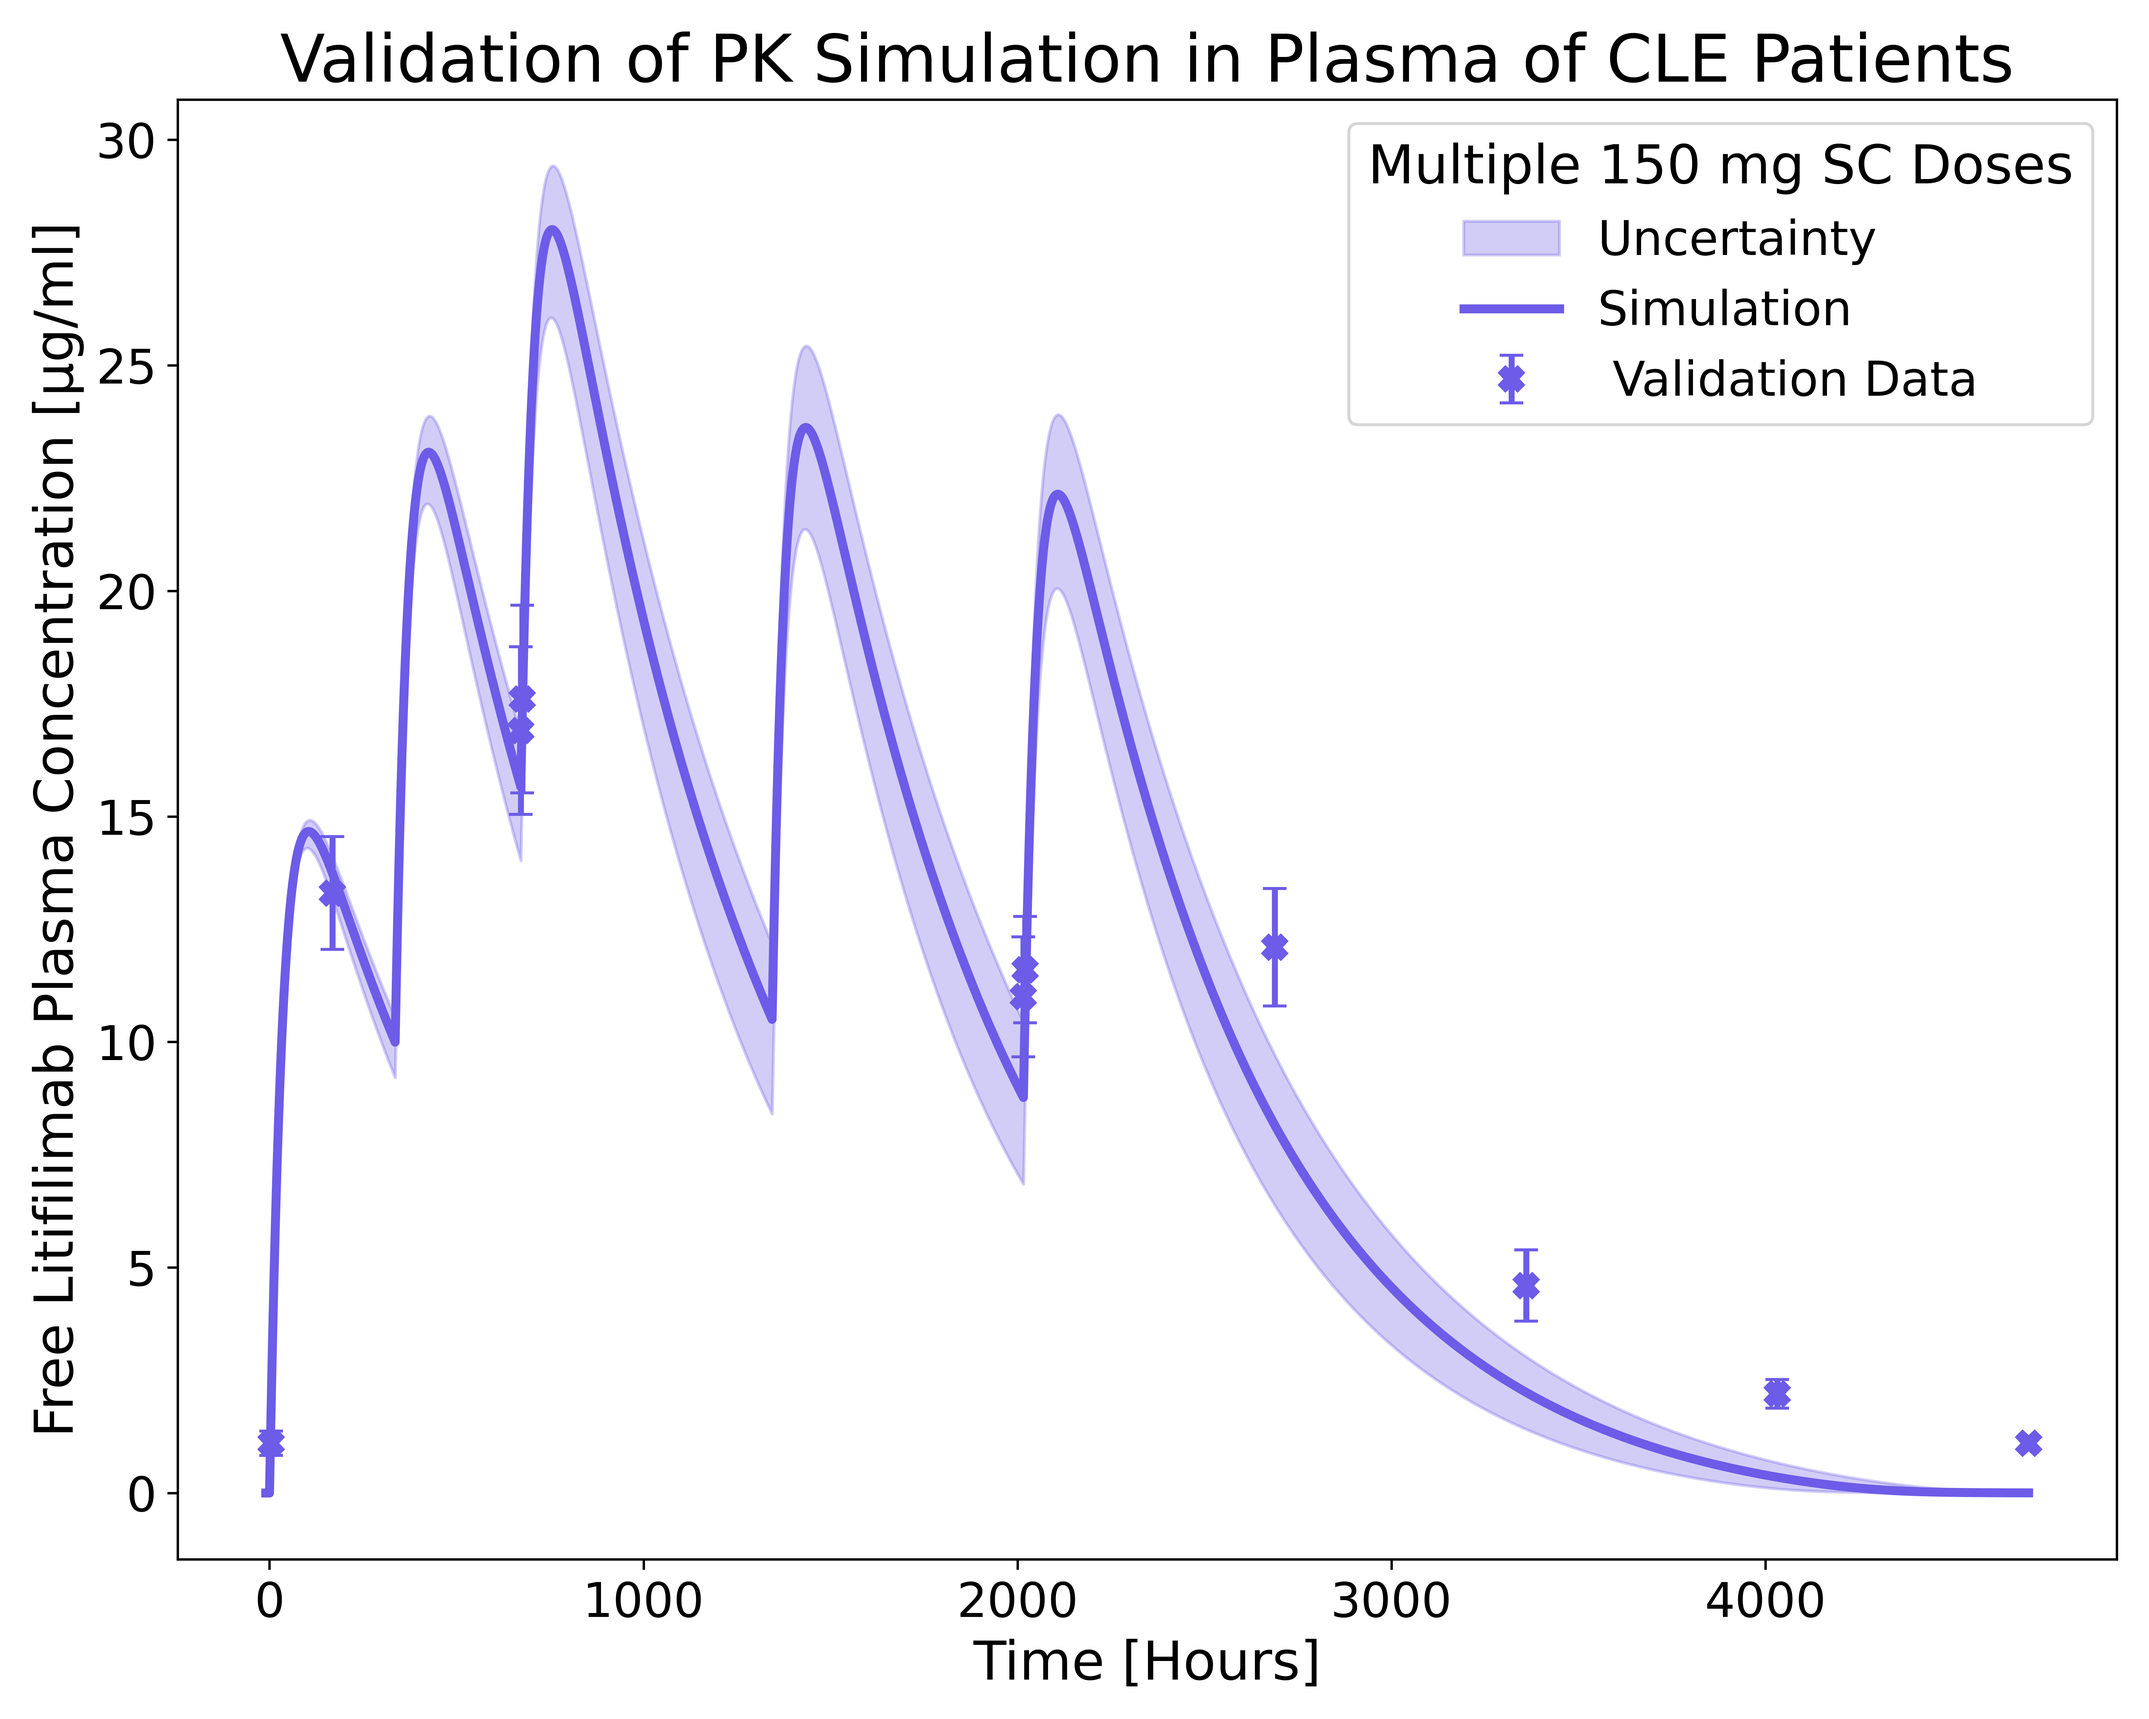
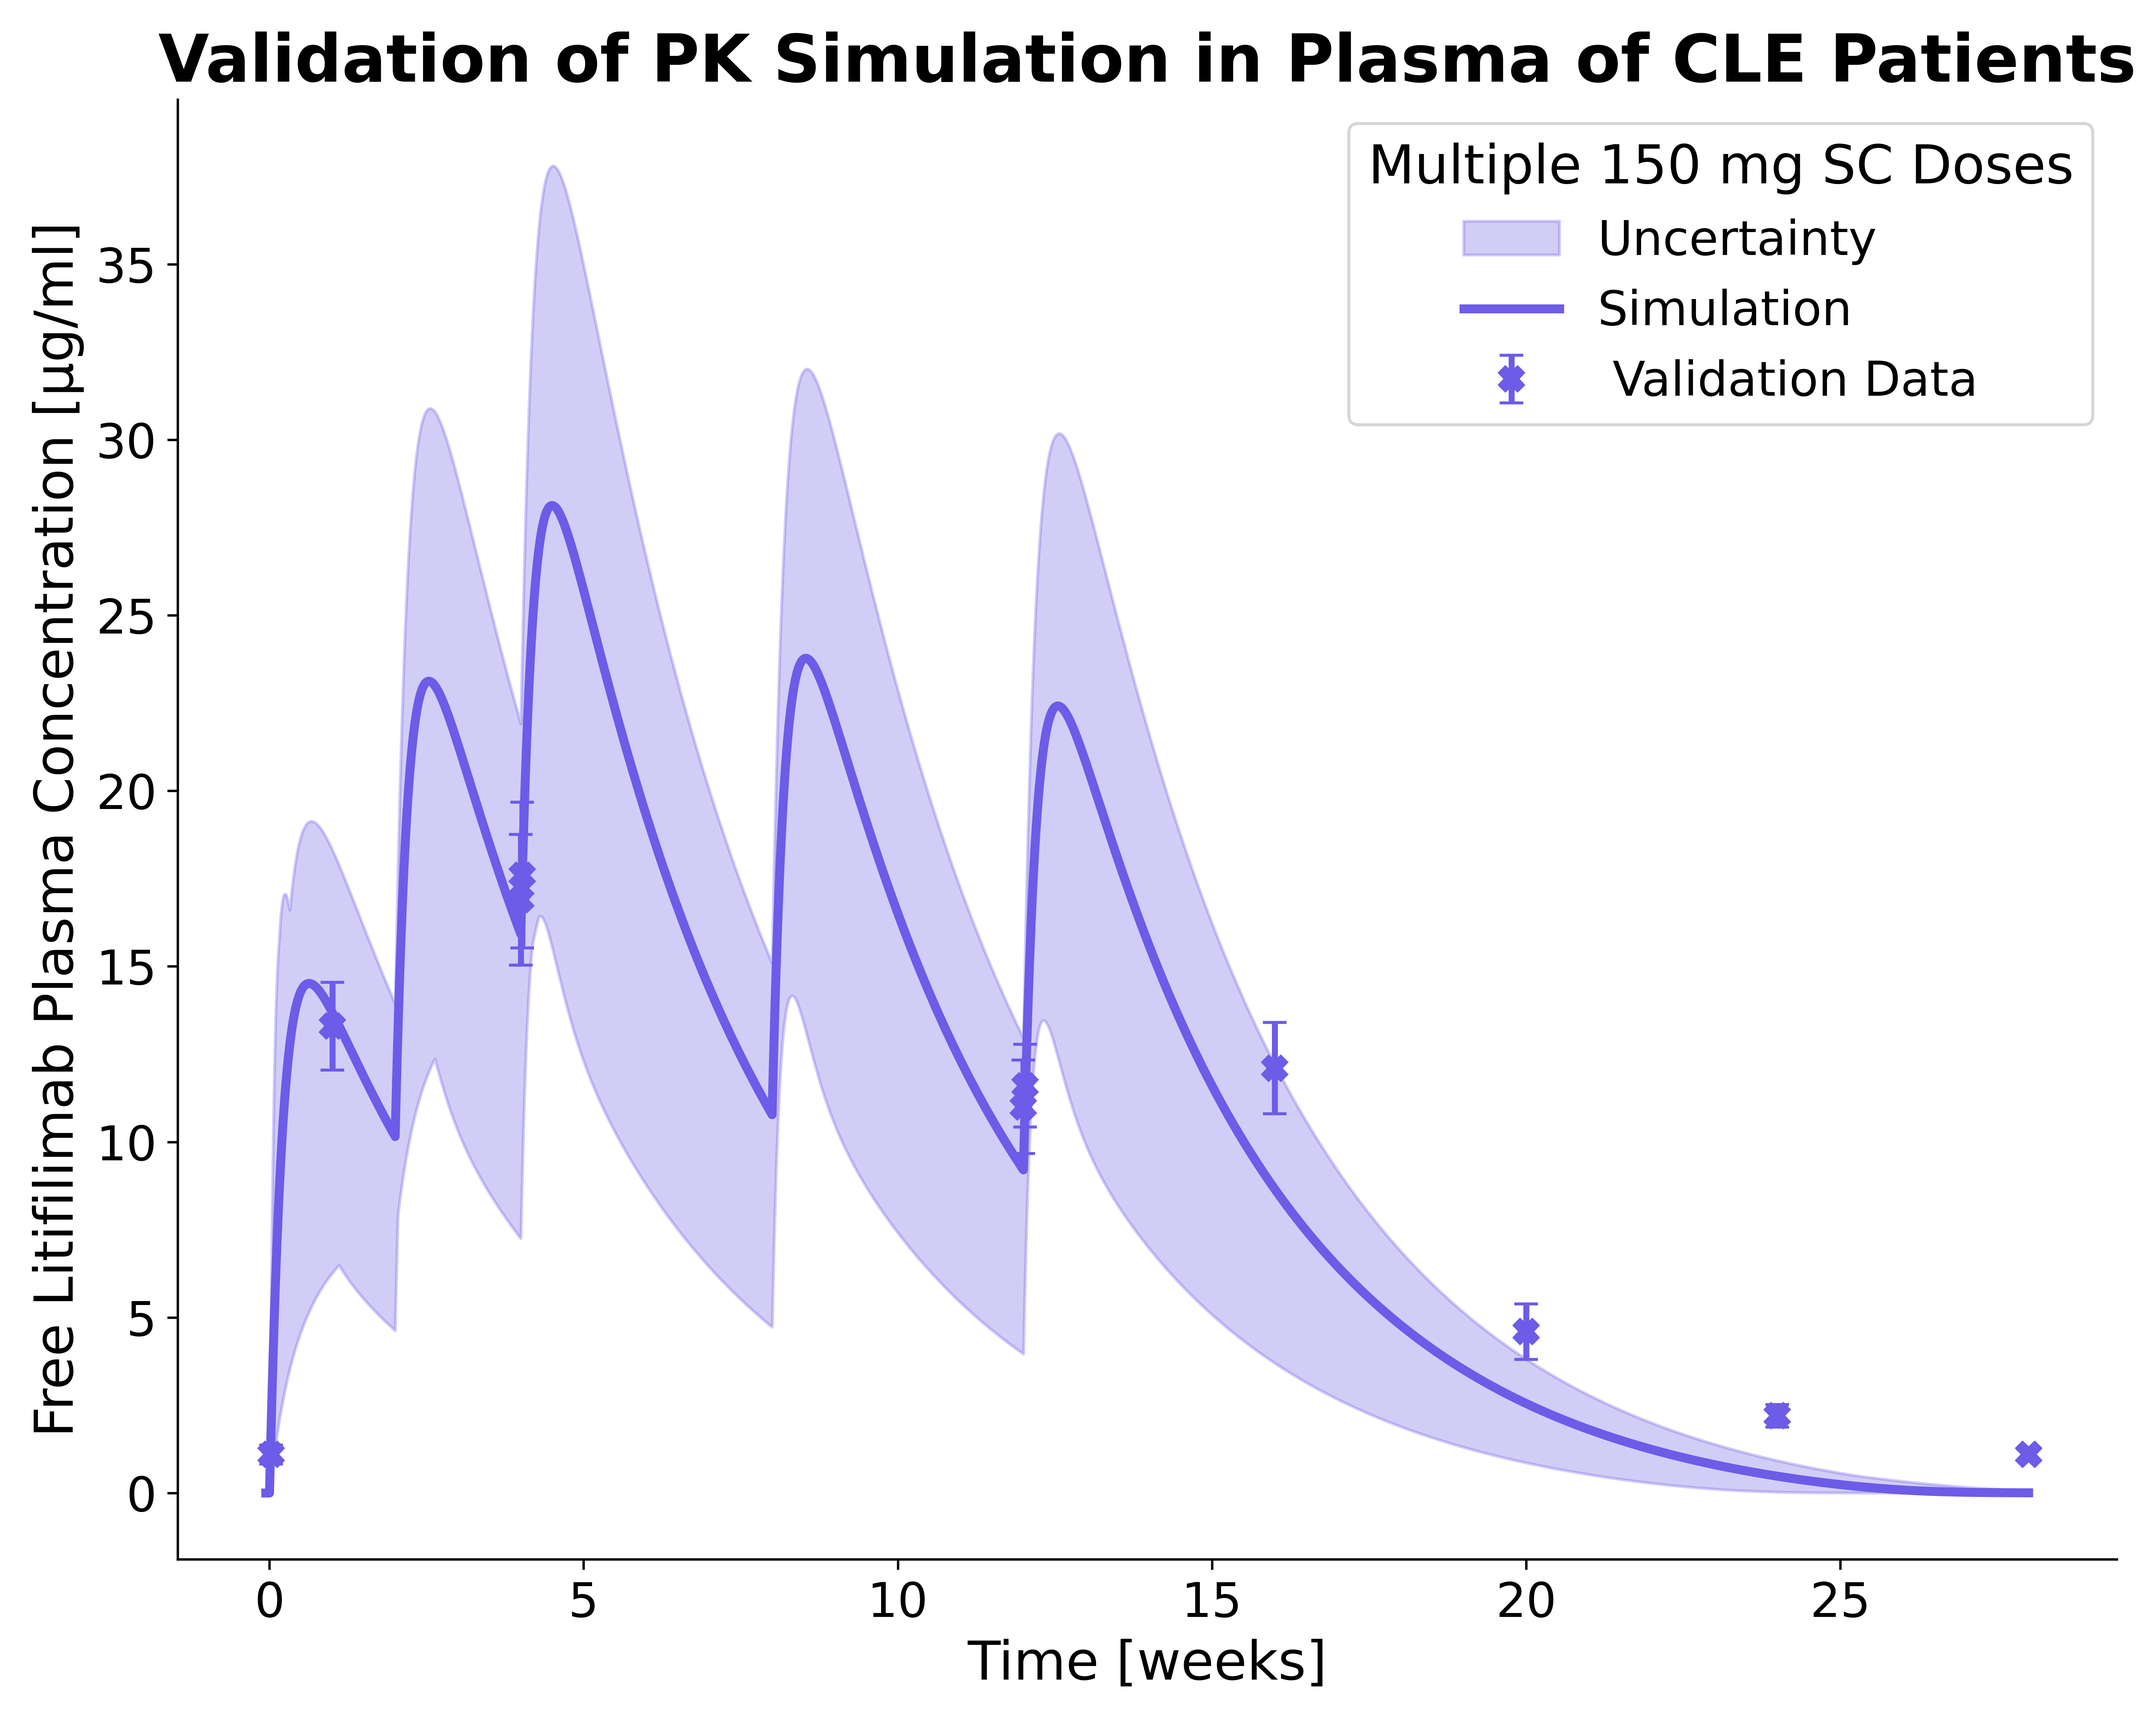
Validation plots och raderat gammalt

diff --git a/Scripts/Validation/plot_validation_CLE.py b/Scripts/Validation/plot_validation_CLE.py
@@ -14,7 +14,7 @@ class NumpyArrayEncoder(JSONEncoder):
         return JSONEncoder.default(self, obj)
 
 # Open the mPBPK_model.txt file and read its contents
-with open("../../Models/mPBPK_SLE_model_32_pdc_mm2.txt", "r") as f:
+with open("../../Models/mPBPK_SLE_model_80_pdc_mm2.txt", "r") as f:
     lines = f.readlines()
 
 # Load CLE Validation PK data
@@ -22,17 +22,16 @@ with open("../../Data/CLE_Validation_PK_data.json", "r") as f:
     PK_data = json.load(f)
 
 # Load acceptable parameters for SLE
-with open("../../Results/Acceptable params/acceptable_params_SLE_32_pdc_mm2.json", "r") as f:
-    acceptable_params = json.load(f)
+acceptable_params = np.loadtxt("../../Results/Acceptable params/acceptable_params_PL.csv", delimiter=",").tolist()
 
 # Load final parameters for SLE
 with open("../../Models/final_parameters_SLE.json", "r") as f:
-    params = json.load(f)
+    best_params = json.load(f)
 
 # Install and load the model
-sund.install_model('../../Models/mPBPK_SLE_model_32_pdc_mm2.txt')
+sund.install_model('../../Models/mPBPK_SLE_model_80_pdc_mm2.txt')
 print(sund.installed_models())
-model = sund.load_model("mPBPK_SLE_model_32_pdc_mm2")
+model = sund.load_model("mPBPK_SLE_model_80_pdc_mm2")
 
 # Create activity objects for each dose
 SC_50_CLE = sund.Activity(time_unit='h')
@@ -55,7 +54,7 @@ model_sims = {
 # The time vectors are created based on the maximum time in the PK_data for each experiment
 time_vectors = {exp: np.arange(-10, PK_data[exp]["time"][-1] + 0.01, 1) for exp in PK_data}
 
-def plot_model_uncertainty_with_validation_data(params, acceptable_params, sims, PK_data, time_vectors, save_dir='../../Results/Validation'):
+def plot_model_uncertainty_with_validation_data(best_params, acceptable_params, sims, PK_data, time_vectors, save_dir='../../Results/Validation'):
     os.makedirs(save_dir, exist_ok=True)
 
     # Colors and markers for the plots
@@ -66,14 +65,18 @@ def plot_model_uncertainty_with_validation_data(params, acceptable_params, sims,
     # Loop through each experiment and plot the uncertainty range and best parameter set
     for i, (experiment, color, dose) in enumerate(zip(PK_data.keys(), colors, doses)):
         plt.figure(figsize=(10, 8))
-        timepoints = time_vectors[experiment]
-        y_min = np.full_like(timepoints, np.inf)
-        y_max = np.full_like(timepoints, -np.inf)
+        # simulation uses hours, but plots should be in weeks
+        timepoints_hours = time_vectors[experiment]
+        timepoints = timepoints_hours / 168.0  # convert hours to weeks
+        y_min = np.full_like(timepoints_hours, np.inf)
+        y_max = np.full_like(timepoints_hours, -np.inf)
 
         # Calculate uncertainty range
         for params in acceptable_params:
+            SLE_params = np.delete(params.copy(), [10,15])
             try:
-                sims[experiment].simulate(time_vector=timepoints, parameter_values=params, reset=True)
+                # simulate using hourly time vector
+                sims[experiment].simulate(time_vector=timepoints_hours, parameter_values=SLE_params, reset=True)
                 y_sim = sims[experiment].feature_data[:, 0]
                 y_min = np.minimum(y_min, y_sim)
                 y_max = np.maximum(y_max, y_sim)
@@ -84,17 +87,19 @@ def plot_model_uncertainty_with_validation_data(params, acceptable_params, sims,
                     raise e
 
         # Plot uncertainty range
+        # plot using weeks on the x-axis
         plt.fill_between(timepoints, y_min, y_max, color=color, alpha=0.3, label='Uncertainty')
 
         # Plot best parameter set
-        sims[experiment].simulate(time_vector=timepoints, parameter_values=params, reset=True)
+        sims[experiment].simulate(time_vector=timepoints_hours, parameter_values=best_params, reset=True)
         y = sims[experiment].feature_data[:, 0]
         plt.plot(timepoints, y, color=color, linewidth=3, label='Simulation')
 
         # Plot experimental data
         marker = markers[i]
         plt.errorbar(
-            PK_data[experiment]['time'],
+            # convert experimental timepoints to weeks for plotting
+            np.array(PK_data[experiment]['time']) / 168.0,
             PK_data[experiment]['BIIB059_mean'],
             yerr=PK_data[experiment]['SEM'],
             fmt=marker,
@@ -107,9 +112,11 @@ def plot_model_uncertainty_with_validation_data(params, acceptable_params, sims,
         )
 
         # Labels and title
-        plt.xlabel('Time [Hours]', fontsize=18)
+        plt.xlabel('Time [weeks]', fontsize=18)
         plt.ylabel('Free Litifilimab Plasma Concentration [µg/ml]', fontsize=18)
-        plt.title(f'Validation of PK Simulation in Plasma of CLE Patients', fontsize=22)
+        plt.gca().spines['top'].set_visible(False)
+        plt.gca().spines['right'].set_visible(False)
+        plt.title(f'Validation of PK Simulation in Plasma of CLE Patients', fontsize=22, fontweight='bold')
         plt.tick_params(axis='both', which='major', labelsize=16)
         plt.legend(title=f'Multiple {dose} Doses', title_fontsize = 18, fontsize=16, loc='upper right')
         plt.tight_layout()
@@ -120,5 +127,5 @@ def plot_model_uncertainty_with_validation_data(params, acceptable_params, sims,
         plt.close()
 
 # Plot the model uncertainty with validation data
-plot_model_uncertainty_with_validation_data(params, acceptable_params, model_sims, PK_data, time_vectors)
+plot_model_uncertainty_with_validation_data(best_params, acceptable_params, model_sims, PK_data, time_vectors)
 

diff --git a/Scripts/Validation/plot_validation_SLE.py b/Scripts/Validation/plot_validation_SLE.py
@@ -14,7 +14,7 @@ class NumpyArrayEncoder(JSONEncoder):
         return JSONEncoder.default(self, obj)
 
 # Open the mPBPK_model.txt file and read its contents
-with open("../../Models/mPBPK_SLE_model_32_pdc_mm2.txt", "r") as f:
+with open("../../Models/mPBPK_SLE_model_80_pdc_mm2.txt", "r") as f:
     lines = f.readlines()
 
 # Load SLE Validation PK data
@@ -22,17 +22,16 @@ with open("../../Data/SLE_Validation_PK_data.json", "r") as f:
     PK_data = json.load(f)
 
 # Load acceptable parameters for SLE
-with open("../../Results/Acceptable params/acceptable_params_SLE_32_pdc_mm2.json", "r") as f:
-    acceptable_params = json.load(f)
+acceptable_params = np.loadtxt("../../Results/Acceptable params/acceptable_params_PL.csv", delimiter=",").tolist()
 
 # Load final parameters for SLE
 with open("../../Models/final_parameters_SLE.json", "r") as f:
-    params = json.load(f)
+    best_params = json.load(f)
 
 # Install and load the model
-sund.install_model('../../Models/mPBPK_SLE_model_32_pdc_mm2.txt')
+sund.install_model('../../Models/mPBPK_SLE_model_80_pdc_mm2.txt')
 print(sund.installed_models())
-model = sund.load_model("mPBPK_SLE_model_32_pdc_mm2")
+model = sund.load_model("mPBPK_SLE_model_80_pdc_mm2")
 
 # Create activity objects for each dose
 SC_50_SLE = sund.Activity(time_unit='h')
@@ -55,7 +54,7 @@ model_sims = {
 # The time vectors are created based on the maximum time in the PK_data for each experiment
 time_vectors = {exp: np.arange(-10, PK_data[exp]["time"][-1] + 0.01, 1) for exp in PK_data}
 
-def plot_model_uncertainty_with_validation_data(params, acceptable_params, sims, PK_data, time_vectors, save_dir='../../Results/Validation'):
+def plot_model_uncertainty_with_validation_data(best_params, acceptable_params, sims, PK_data, time_vectors, save_dir='../../Results/Validation'):
     os.makedirs(save_dir, exist_ok=True)
 
     # Colors and markers for the plots
@@ -66,14 +65,18 @@ def plot_model_uncertainty_with_validation_data(params, acceptable_params, sims,
     # Loop through each experiment and plot the uncertainty range and best parameter set
     for i, (experiment, color, dose) in enumerate(zip(PK_data.keys(), colors, doses)):
         plt.figure(figsize=(10, 8))
-        timepoints = time_vectors[experiment]
-        y_min = np.full_like(timepoints, 10000)
-        y_max = np.full_like(timepoints, -10000)
+        # simulation uses hours, but plots should be in weeks
+        timepoints_hours = time_vectors[experiment]
+        timepoints = timepoints_hours / 168.0  # convert hours to weeks
+        y_min = np.full_like(timepoints_hours, 10000)
+        y_max = np.full_like(timepoints_hours, -10000)
 
         # Calculate uncertainty range
         for params in acceptable_params:
+            SLE_params = np.delete(params.copy(), [10,15])
             try:
-                sims[experiment].simulate(time_vector=timepoints, parameter_values=params, reset=True)
+                # simulate on the hourly time vector
+                sims[experiment].simulate(time_vector=timepoints_hours, parameter_values=SLE_params, reset=True)
                 y_sim = sims[experiment].feature_data[:, 0]
                 y_min = np.minimum(y_min, y_sim)
                 y_max = np.maximum(y_max, y_sim)
@@ -84,17 +87,19 @@ def plot_model_uncertainty_with_validation_data(params, acceptable_params, sims,
                     raise e
 
         # Plot uncertainty range
+        # plot using weeks on the x-axis
         plt.fill_between(timepoints, y_min, y_max, color=color, alpha=0.3, label='Uncertainty')
 
         # Plot best parameter set
-        sims[experiment].simulate(time_vector=timepoints, parameter_values=params, reset=True)
+        sims[experiment].simulate(time_vector=timepoints_hours, parameter_values=best_params, reset=True)
         y = sims[experiment].feature_data[:, 0]
         plt.plot(timepoints, y, color=color, linewidth=3, label='Simulation')
 
         # Plot experimental data
         marker = markers[i]
         plt.errorbar(
-            PK_data[experiment]['time'],
+            # convert experimental timepoints to weeks for plotting
+            np.array(PK_data[experiment]['time']) / 168.0,
             PK_data[experiment]['BIIB059_mean'],
             yerr=PK_data[experiment]['SEM'],
             fmt=marker,
@@ -106,9 +111,11 @@ def plot_model_uncertainty_with_validation_data(params, acceptable_params, sims,
         )
 
         # Labels and title
-        plt.xlabel('Time [Hours]', fontsize=18)
+        plt.xlabel('Time [weeks]', fontsize=18)
         plt.ylabel('Free Litifilimab Plasma Concentration [µg/ml]', fontsize=18)
-        plt.title(f'Validation of PK Simulation in Plasma of SLE Patients', fontsize=22)
+        plt.gca().spines['top'].set_visible(False)
+        plt.gca().spines['right'].set_visible(False)
+        plt.title(f'Validation of PK Simulation in Plasma of SLE Patients', fontsize=22, fontweight='bold')
         plt.tick_params(axis='both', which='major', labelsize=16)
         plt.legend(title=f'Multiple {dose} Doses', title_fontsize = 18, fontsize=16, loc='upper right')
         plt.tight_layout()
@@ -119,5 +126,5 @@ def plot_model_uncertainty_with_validation_data(params, acceptable_params, sims,
         plt.close()
 
 # Plot the model uncertainty with validation data
-plot_model_uncertainty_with_validation_data(params, acceptable_params, model_sims, PK_data, time_vectors)
+plot_model_uncertainty_with_validation_data(best_params, acceptable_params, model_sims, PK_data, time_vectors)
 
